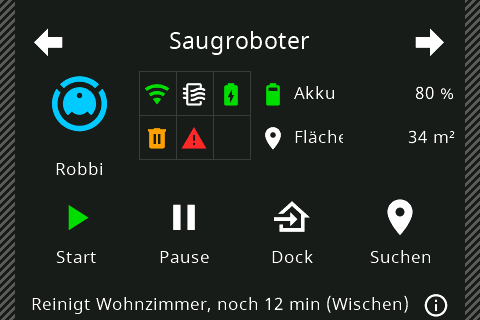
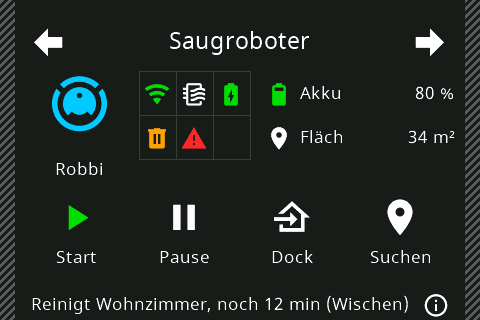
fix(hmi): move info set B/C of cardDevice1 6 px away from the status grid (device14)
The icon of the info rows stood behind the grid with the pitch of the grid
icons and looked like one more column. Sets B and C start 6 px later
(eu icon 247/321, us-l 262/336), the right edge stays: name B 43 px,
value C 81 px. Adapter field widths, web panel (eu/us-l, web-l), admin
preview, geometry file, previews and docs follow; us-p unchanged.

Changed region(s): [[0.5312, 0.25, 0.7188, 0.3438], [0.5312, 0.375, 0.7188, 0.4688]]

diff --git a/src-web/src/cards/cardDevice/geometry.test.ts b/src-web/src/cards/cardDevice/geometry.test.ts
@@ -408,7 +408,7 @@ describe('device page geometry: eu', () => {
             name: { x: 10, y: 244, w: 104, h: 26 },
         });
         expect(DEVICE_GEOMETRY[1].slots.slice(2, 6).map(s => slotBoxes(s)[0].x)).toEqual([10, 118, 226, 334]);
-        // the info rows per stage: set A, B (name 49 px, 15 bytes, the value of A), C (no name, value 87 px, 19
+        // the info rows per stage: set A, B (name 43 px, 15 bytes, the value of A), C (no name, value 81 px, 19
         // bytes), none
         const info1 = (stage: DeviceStage): SlotGeometry | undefined => deviceGeometry(1, 'eu', [], stage).slots[0];
         expect(info1(0)).toEqual({
@@ -419,14 +419,14 @@ describe('device page geometry: eu', () => {
         });
         expect(info1(1)).toEqual({
             kind: 'info',
-            icon: { x: 241, y: 76, w: 36, h: 34 },
-            name: { x: 279, y: 80, w: 49, h: 26, maxBytes: 15 },
+            icon: { x: 247, y: 76, w: 36, h: 34 },
+            name: { x: 285, y: 80, w: 43, h: 26, maxBytes: 15 },
             value: { x: 330, y: 80, w: 110, h: 26 },
         });
         expect(info1(2)).toEqual({
             kind: 'info',
-            icon: { x: 315, y: 76, w: 36, h: 34 },
-            value: { x: 353, y: 80, w: 87, h: 26, maxBytes: 19 },
+            icon: { x: 321, y: 76, w: 36, h: 34 },
+            value: { x: 359, y: 80, w: 81, h: 26, maxBytes: 19 },
         });
         expect(info1(3)).toBeUndefined();
         // the grid: 8 x 2 cells of 38 x 45 from x 124, rows at y 71 / 115; cardDevice3 8 x 1 of 38 x 52 from x 114
@@ -506,8 +506,8 @@ describe('device page geometry: us-l', () => {
         }
         expect(US_L_GEOMETRY[1].status).toEqual({ x: 25, y: 289, w: 390, h: 30 });
         expect(US_L_GEOMETRY[1].info).toEqual({ x: 419, y: 288, w: 36, h: 32 });
-        expect(deviceGeometry(1, 'us-l', [], 1).slots[0]).toMatchObject({ icon: { x: 256, y: 76 } });
-        expect(deviceGeometry(1, 'us-l', [], 2).slots[0]).toMatchObject({ icon: { x: 330, y: 76 } });
+        expect(deviceGeometry(1, 'us-l', [], 1).slots[0]).toMatchObject({ icon: { x: 262, y: 76 } });
+        expect(deviceGeometry(1, 'us-l', [], 2).slots[0]).toMatchObject({ icon: { x: 336, y: 76 } });
         expect(deviceGeometry(1, 'us-l').slots[0]).toMatchObject({ icon: { x: 141, y: 76 } });
         expect(deviceGeometry(2, 'us-l').extras).toEqual([]);
     });
@@ -655,14 +655,14 @@ describe('device page geometry: web-l', () => {
         // bytes; stage 3: no info rows
         expect(geometry(1, 0, 1).slots[1]).toEqual({
             kind: 'info',
-            icon: { x: 241, y: 120, w: 36, h: 34 },
-            name: { x: 279, y: 124, w: 239, h: 26, maxBytes: 15 },
+            icon: { x: 247, y: 120, w: 36, h: 34 },
+            name: { x: 285, y: 124, w: 233, h: 26, maxBytes: 15 },
             value: { x: 520, y: 124, w: 110, h: 26 },
         });
         expect(geometry(1, 0, 2).slots[1]).toEqual({
             kind: 'info',
-            icon: { x: 315, y: 120, w: 36, h: 34 },
-            value: { x: 353, y: 124, w: 277, h: 26, maxBytes: 19 },
+            icon: { x: 321, y: 120, w: 36, h: 34 },
+            value: { x: 359, y: 124, w: 271, h: 26, maxBytes: 19 },
         });
         expect(geometry(1, 0, 3).slots.slice(0, 2)).toEqual([undefined, undefined]);
         // main and the grid are those of eu

diff --git a/src/lib/types/deviceDetails.ts b/src/lib/types/deviceDetails.ts
@@ -403,9 +403,9 @@ export const DEVICE_PAGE_FIELDS: Readonly<Record<DevicePageLayout, DevicePageLay
         mainName: 110,
         status: 390,
         slots: { info: { name: 164, value: 110 }, button: { name: 104 } },
-        // the status grid right of the big icon: stage 1 set B (icon, name 49 px, the value of set A), stage 2 set C
-        // (icon and value 87 px, no name), stage 3 no info rows
-        slotsByStage: { 1: { info: { name: 49, value: 110 } }, 2: { info: { name: 0, value: 87 } } },
+        // the status grid right of the big icon: stage 1 set B (icon, name 43 px, the value of set A), stage 2 set C
+        // (icon and value 81 px, no name), stage 3 no info rows
+        slotsByStage: { 1: { info: { name: 43, value: 110 } }, 2: { info: { name: 0, value: 81 } } },
     },
     2: {
         mainName: 96,
@@ -464,15 +464,15 @@ export const DEVICE_PAGE_FIELDS_US_P: Readonly<Record<DevicePageLayout, DevicePa
  * stand side by side, which are 4 px narrower to keep a gap between two names. Rows that hold a varying number of
  * elements are given with their narrowest field: the buttons of layout 1 have 104 px, six in a row 100 px; the buttons
  * of layout 2 have 100 px, two or three in a row 96 px. The status icon grid and its stages are those of eu; the info
- * rows of layout 1 reach the right edge in every set: set B with the name up to the value (239 px, the HMI copies at
- * most 15 bytes of it), set C with the value from its icon to the right edge (277 px, at most 19 bytes).
+ * rows of layout 1 reach the right edge in every set: set B with the name up to the value (233 px, the HMI copies at
+ * most 15 bytes of it), set C with the value from its icon to the right edge (271 px, at most 19 bytes).
  */
 export const DEVICE_PAGE_FIELDS_WEB_L: Readonly<Record<DevicePageLayout, DevicePageLayoutFields>> = {
     1: {
         mainName: 110,
         status: 580,
         slots: { info: { name: 354, value: 110 }, button: { name: 100 } },
-        slotsByStage: { 1: { info: { name: 239, value: 110 } }, 2: { info: { name: 0, value: 277 } } },
+        slotsByStage: { 1: { info: { name: 233, value: 110 } }, 2: { info: { name: 0, value: 271 } } },
     },
     2: {
         mainName: 96,

diff --git a/src/lib/pages/device-page-models.test.ts b/src/lib/pages/device-page-models.test.ts
@@ -119,10 +119,10 @@ describe('lib/types/deviceDetails - models of the device page', () => {
             }
         }
         expect(devicePageFields(1, 'eu').status).to.equal(390);
-        // the stages of the status grid: set B (short name), set C (no name, value 87 px)
+        // the stages of the status grid: set B (short name), set C (no name, value 81 px)
         expect(devicePageSlotFields(1, 'info', 0)).to.deep.equal({ name: 164, value: 110 });
-        expect(devicePageSlotFields(1, 'info', 1)).to.deep.equal({ name: 49, value: 110 });
-        expect(devicePageSlotFields(1, 'info', 2)).to.deep.equal({ name: 0, value: 87 });
+        expect(devicePageSlotFields(1, 'info', 1)).to.deep.equal({ name: 43, value: 110 });
+        expect(devicePageSlotFields(1, 'info', 2)).to.deep.equal({ name: 0, value: 81 });
         expect(devicePageSlotFields(1, 'button', 3)).to.deep.equal({ name: 104 });
         expect(devicePageSlotFields(3, 'info', 2)).to.deep.equal({ name: 125, value: 125 });
     });
@@ -147,8 +147,8 @@ describe('lib/types/deviceDetails - models of the device page', () => {
         // the names of buttons that stand side by side are 4 px narrower (a gap between two names)
         expect(devicePageSlotFields(1, 'info', 0, 'web-l')).to.deep.equal({ name: 354, value: 110 });
         // web-l: the stages of eu, the info rows reach the right edge in every set
-        expect(devicePageSlotFields(1, 'info', 1, 'web-l')).to.deep.equal({ name: 239, value: 110 });
-        expect(devicePageSlotFields(1, 'info', 2, 'web-l')).to.deep.equal({ name: 0, value: 277 });
+        expect(devicePageSlotFields(1, 'info', 1, 'web-l')).to.deep.equal({ name: 233, value: 110 });
+        expect(devicePageSlotFields(1, 'info', 2, 'web-l')).to.deep.equal({ name: 0, value: 271 });
         expect(devicePageSlotFields(2, 'progress', 0, 'web-l')).to.deep.equal({ name: 620 });
         for (const layout of LAYOUTS) {
             const web = DEVICE_PAGE_FIELDS_WEB_L[layout];

diff --git a/src-web/src/cards/cardDevice/geometryWeb.ts b/src-web/src/cards/cardDevice/geometryWeb.ts
@@ -132,7 +132,7 @@ const VALUE_L = 520;
 
 /**
  * An info row of web-l cardDevice1 in the set of the stage: the icon where eu has it (5 px right of the grid of the
- * stage), sets A and B with the name up to the value, set C with the value from the icon to the right edge (no
+ * stage in set A, 11 px in sets B and C), sets A and B with the name up to the value, set C with the value from the icon to the right edge (no
  * name).
  *
  * @param y top of the icon
@@ -143,15 +143,15 @@ function info1L(y: number, stage: DeviceStage): InfoSlotGeometry {
         case 1:
             return {
                 kind: 'info',
-                icon: box(241, y, 36, 34),
-                name: { ...box(279, y + 4, VALUE_L - 2 - 279, 26), maxBytes: SET_B_NAME_BYTES },
+                icon: box(247, y, 36, 34),
+                name: { ...box(285, y + 4, VALUE_L - 2 - 285, 26), maxBytes: SET_B_NAME_BYTES },
                 value: box(VALUE_L, y + 4, RIGHT - VALUE_L, 26),
             };
         case 2:
             return {
                 kind: 'info',
-                icon: box(315, y, 36, 34),
-                value: { ...box(353, y + 4, RIGHT - 353, 26), maxBytes: SET_C_VALUE_BYTES },
+                icon: box(321, y, 36, 34),
+                value: { ...box(359, y + 4, RIGHT - 359, 26), maxBytes: SET_C_VALUE_BYTES },
             };
         default:
             return {

diff --git a/src-web/src/cards/cardDevice/geometryHmi.ts b/src-web/src/cards/cardDevice/geometryHmi.ts
@@ -35,7 +35,7 @@ export const SET_B_NAME_BYTES = 15;
 export const SET_C_VALUE_BYTES = 19;
 
 /**
- * An info row of cardDevice1 in set B (stage 1, right of 3 columns of the grid): icon, the name 49 px wide, the value
+ * An info row of cardDevice1 in set B (stage 1, right of 3 columns of the grid): icon, the name 43 px wide, the value
  * of set A (`tValue1/2`).
  *
  * @param y top of the icon
@@ -43,8 +43,8 @@ export const SET_C_VALUE_BYTES = 19;
 function info1B(y: number): InfoSlotGeometry {
     return {
         kind: 'info',
-        icon: box(241, y, 36, 34),
-        name: { ...box(279, y + 4, 49, 26), maxBytes: SET_B_NAME_BYTES },
+        icon: box(247, y, 36, 34),
+        name: { ...box(285, y + 4, 43, 26), maxBytes: SET_B_NAME_BYTES },
         value: box(330, y + 4, 110, 26),
     };
 }
@@ -57,8 +57,8 @@ function info1B(y: number): InfoSlotGeometry {
 function info1C(y: number): InfoSlotGeometry {
     return {
         kind: 'info',
-        icon: box(315, y, 36, 34),
-        value: { ...box(353, y + 4, 87, 26), maxBytes: SET_C_VALUE_BYTES },
+        icon: box(321, y, 36, 34),
+        value: { ...box(359, y + 4, 81, 26), maxBytes: SET_C_VALUE_BYTES },
     };
 }
 

diff --git a/src/lib/pages/device-page.test.ts b/src/lib/pages/device-page.test.ts
@@ -365,8 +365,8 @@ describe('lib/types/deviceDetails - device page configuration', () => {
         ).to.equal(false);
         expect(devicePageHasStatusIcons({ layout: 2, statusStage: 1, statusSlots: [ref('door')] })).to.equal(false);
         expect(devicePageSlotFields(1, 'info', 0)).to.deep.equal({ name: 164, value: 110 });
-        expect(devicePageSlotFields(1, 'info', 1)).to.deep.equal({ name: 49, value: 110 });
-        expect(devicePageSlotFields(1, 'info', 2)).to.deep.equal({ name: 0, value: 87 });
+        expect(devicePageSlotFields(1, 'info', 1)).to.deep.equal({ name: 43, value: 110 });
+        expect(devicePageSlotFields(1, 'info', 2)).to.deep.equal({ name: 0, value: 81 });
         expect(devicePageSlotFields(1, 'button', 1)).to.deep.equal({ name: 104 });
         expect(devicePageSlotFields(1, 'status', 1)).to.equal(undefined);
         expect(devicePageSlotFields(3, 'info', 1)).to.deep.equal({ name: 125, value: 125 });

diff --git a/src-admin/src/devicePageConfig.test.ts b/src-admin/src/devicePageConfig.test.ts
@@ -611,8 +611,8 @@ describe('devicePageConfig - device page of the page item dialog', () => {
                 .sort((a, b) => a - b);
         // layout 1: the info rows wide / set B / set C / none, the grid 0 / 3 / 5 / 8 columns of 2 cells
         expect(devicePagePreviewAreas(1, 0).find(a => a.slot === 1)).to.deep.include({ x: 126, w: 314 });
-        expect(devicePagePreviewAreas(1, 1).find(a => a.slot === 1)).to.deep.include({ x: 241, w: 199 });
-        expect(devicePagePreviewAreas(1, 2).find(a => a.slot === 2)).to.deep.include({ x: 315, y: 120, w: 125 });
+        expect(devicePagePreviewAreas(1, 1).find(a => a.slot === 1)).to.deep.include({ x: 247, w: 193 });
+        expect(devicePagePreviewAreas(1, 2).find(a => a.slot === 2)).to.deep.include({ x: 321, y: 120, w: 119 });
         expect(slotsOf(1, 3)).to.deep.equal([3, 4, 5, 6]);
         expect(cells(1, 0)).to.have.length(0);
         expect(cells(1, 1)).to.have.length(6);

diff --git a/src-web/src/cards/cardDevice/parse.test.ts b/src-web/src/cards/cardDevice/parse.test.ts
@@ -498,8 +498,8 @@ describe('cardDevice status icon grid (devIcons, stage)', () => {
     it('the geometry follows the stage: info rows in set A / B / C / none, tiles 1 and 2 of cardDevice3', () => {
         const info = (stage: 0 | 1 | 2 | 3): unknown => deviceGeometry(1, 'eu', [], stage).slots[0];
         expect(info(0)).toMatchObject({ icon: { x: 126 }, name: { x: 164, w: 164 }, value: { x: 330, w: 110 } });
-        expect(info(1)).toMatchObject({ icon: { x: 241 }, name: { x: 279, w: 49 }, value: { x: 330, w: 110 } });
-        expect(info(2)).toMatchObject({ icon: { x: 315 }, value: { x: 353, w: 87 } });
+        expect(info(1)).toMatchObject({ icon: { x: 247 }, name: { x: 285, w: 43 }, value: { x: 330, w: 110 } });
+        expect(info(2)).toMatchObject({ icon: { x: 321 }, value: { x: 359, w: 81 } });
         expect(info(2)).not.toHaveProperty('name');
         expect(info(3)).toBeUndefined();
         // buttons do not move

diff --git a/src-web/src/cards/cardDevice/CardDevice.test.ts b/src-web/src/cards/cardDevice/CardDevice.test.ts
@@ -457,11 +457,11 @@ describe('cardDevice status icon grid rendering', () => {
         expect(tag(a, 'slot-1')).toContain('left:126px;top:76px');
         expect(a).toContain('Name 1<');
         const b = html('cardDevice1', 1, 3);
-        expect(tag(b, 'slot-1')).toContain('left:241px;top:76px');
+        expect(tag(b, 'slot-1')).toContain('left:247px;top:76px');
         expect(b).toContain('Name 1<');
         expect(b).toContain('Wert 1<');
         const c = html('cardDevice1', 2, 9);
-        expect(tag(c, 'slot-1')).toContain('left:315px;top:76px');
+        expect(tag(c, 'slot-1')).toContain('left:321px;top:76px');
         expect(c).not.toContain('Name 1<');
         expect(c).toContain('Wert 1<');
         const none = html('cardDevice1', 3, 16);

diff --git a/src-admin/src/devicePageConfig.ts b/src-admin/src/devicePageConfig.ts
@@ -636,8 +636,8 @@ const STATUS_GRID: Readonly<Record<DevicePageLayout, { x: number; y: number; w: 
  */
 const LAYOUT1_INFO_ROW_X: Readonly<Record<DevicePageStatusStage, number | null>> = {
     0: 126,
-    1: 241,
-    2: 315,
+    1: 247,
+    2: 321,
     3: null,
 };
 

diff --git a/HMI/tools/card_device.py b/HMI/tools/card_device.py
@@ -16,7 +16,7 @@ keys: stage size, visible x range and per page every element with its boxes as t
 (x, y, w, h, font, alignment, buffer; roles: header prev/heading/next, main icon/name, per slot icon/name/value/
 bar/toggle/touch and the sets B/C of an info row, status, info, the grid with its cells and the stages) plus
 statusWidth, the width of the status line in px. doc/ideas/device-details/device-page-geometry.json is that file
-for the device13 pages (the web panel builds its layouts from it, adapter and web panel test against it).
+for the device14 pages (the web panel builds its layouts from it, adapter and web panel test against it).
 
 Models. The model is read from the project (detect_model: pageStartup sends event,startup,<version>,<model>,..),
 never from the file name; the page size of cardGrid must fit it.
@@ -273,8 +273,8 @@ def info_sets(x_icon_b, x_name_b, w_name_b, x_icon_c, x_value_c, w_value_c, ys):
     return out
 
 
-SET_NAME_LEN = 15  # name of set B (49 px hold at most 9 characters)
-SET_VALUE_LEN = 19  # value of set C (87 / 106 px hold at most 17 narrow characters)
+SET_NAME_LEN = 15  # name of set B (43 px)
+SET_VALUE_LEN = 19  # value of set C (81 px eu/us-l, 106 px us-p)
 
 
 # landscape (EU; us-l with every x shifted)
@@ -289,8 +289,10 @@ LAYOUTS = {
         'iconLen': ICON_NEED,
         'slots': [info_row(126, 76, 314), info_row(126, 120, 314)] + [button(10 + 108 * k, 190, 104) for k in range(4)],
         'cells': grid(8, 2, 124, 71, 37, 38, 45), 'gridRows': 2, 'stageColumns': (0, 3, 5, 8),
-        # B: icon 5 px behind column 3 (236), name 2 px behind the icon up to tValue (330); C: behind column 5 (310)
-        'sets': info_sets(241, 279, 49, 315, 353, 87, (76, 120)),
+        # B: icon 11 px behind column 3 (236), name 2 px behind the icon up to tValue (330); C: icon 11 px behind
+        # column 5 (310), value up to 440. 11 px, not the 5 px between grid and icon: with the pitch of the grid the
+        # icon of the row looked like one more column
+        'sets': info_sets(247, 285, 43, 321, 359, 81, (76, 120)),
         'setStages': {'A': (0,), 'B': (1,), 'C': (2,)}, 'sharedValue': 'B',
         'status': STATUS_LINE, 'info': INFO_ICON,
     },

diff --git a/doc/ideas/device-details/device-page-hmi.md b/doc/ideas/device-details/device-page-hmi.md
@@ -2,11 +2,13 @@
 
 Drei neue Seiten für **ein** Gerät (Saugroboter, Waschmaschine, Pkw …): großes Geräte-Icon, feste Anzahl Slots mit
 festen Elementarten, Statuszeile unten, info-Icon unten rechts. Gebaut mit `HMI/tools/card_device.py`, Vorschau des
-aktuellen Stands `device13` je Stufe unter `doc/Pictures/device-page/next/`; die älteren Vorschauen
+aktuellen Stands `device14` je Stufe unter `doc/Pictures/device-page/next/`; die älteren Vorschauen
 `doc/Pictures/device-page/hmi-cardDevice{1,2,3}.png` (cardDevice1 mit 2×2-Status-Block, ohne:
 `hmi-cardDevice1-plain.png`) zeigen `device12`.
 
-> **Aktueller Stand ist `device13`** (Abschnitt [„device13“](#device13-typzahl-status-raster-devicons)). Die Abschnitte ab
+> **Aktueller Stand ist `device14`** = `device13` mit Satz B/C 6 px weiter rechts (Abschnitt
+> [„device14“](#device14-satz-bc-6-px-nach-rechts)); sonst gilt der Abschnitt
+> [„device13“](#device13-typzahl-status-raster-devicons). Die Abschnitte ab
 > [„Protokoll“](#protokoll) beschreiben `device12`; wo sie dem Abschnitt „device13“ widersprechen, sind sie
 > **überholt** – vor allem: cardDevice1 hat in `entityUpd` 6 Slots (nicht 10), die Status-Icons kommen per `devIcons`
 > in ein Raster bis 8×2 (nicht der 2×2-Block `tStat7–10`), cardDevice3 hat ein Raster bis 8×1, der schmale Satz
@@ -68,6 +70,37 @@ cardDevice1 gelegt und gespeichert (siehe „Verworfen: Lauftext“).
   (36 Seiten; pageTest hat keinen Umschalter, wie bisher).
 - Idempotent: Läuft das Werkzeug auf seiner eigenen Ausgabe, baut es die drei Seiten in ihren Abschnitten neu und
   ändert sonst nichts (geprüft).
+
+## device14: Satz B/C 6 px nach rechts
+
+Stand 2026-11-28. Tims Wunsch: Das Icon der Info-Zeilen in Satz B (Stufe 1) und C (Stufe 2) von cardDevice1 stand
+mit demselben Abstand hinter dem Raster wie die Raster-Icons untereinander und sah deshalb aus wie eine weitere
+Spalte. Satz B und C liegen jetzt **6 px weiter rechts** (Icon 11 statt 5 px hinter der Rasterkante); die rechte Kante
+bleibt, der Text wird 6 px schmaler:
+
+| Modell | Satz B (Icon, Name, Wert) | Satz C (Icon, Wert) |
+|---|---|---|
+| EU | Icon 247, Name 285 w **43**, Wert = tValue 330 w 110 | Icon 321, Wert 359 w **81** (bis 440) |
+| us-l (+15) | Icon 262, Name 300 w 43, Wert 345 w 110 | Icon 336, Wert 374 w 81 (bis 455) |
+
+us-p (Satz C neben dem Haupt-Icon), Stufe 0 und 3, cardDevice2 und cardDevice3 sind unverändert. Puffer, Code,
+Objektzahl und RAM-Schätzung bleiben (cardDevice1 3045 mit global), `check_area` meldet nichts.
+
+```
+for M in "" us-l- us-p-; do
+  PYTHONDONTWRITEBYTECODE=1 python3 HMI/tools/card_device.py /home/tim/device-page-hmi/nspanel-${M}v6.2.0.device13.HMI \
+    /home/tim/device-page-hmi/nspanel-${M}v6.2.0.device14.HMI --preview doc/Pictures/device-page/next \
+    --geometry doc/ideas/device-details/device-page-geometry.json
+done
+```
+
+- Eingabe sind die von Tim kompilierten `device13`-Dateien. Skript-Vergleich aller lebenden Abschnitte
+  `device13` → `device14`: EU und us-l ändern nur `x`/`endx` von `bEntityB1/2`, `bEntityC1/2` und `x`/`w` von
+  `tEntityB1/2`, `tValueC1/2` auf cardDevice1; us-p ist identisch. Ein zweiter Lauf auf `device14` liefert dieselben
+  Abschnitte (idempotent). Kopien in `/mnt/projekte/nextion-vm/`.
+- Adapter (`DEVICE_PAGE_FIELDS`: Name B 43, Wert C 81; web-l: Name B 233, Wert C 271), Web-Panel
+  (`geometryHmi.ts`, web-l in `geometryWeb.ts`, das die x-Werte von eu übernimmt) und Admin-Vorschau sind angeglichen;
+  web-p folgt us-p und bleibt.
 
 ## device13: Typzahl, Status-Raster, devIcons
 
@@ -145,7 +178,7 @@ Die Status-Slots 7–10 von cardDevice1 gibt es in `entityUpd` nicht mehr, die S
 |---|---|---|---|
 | cardDevice1 | 0 | 0 | Satz A (breit, wie bisher) |
 | | 1 | 3 | Satz B: Icon, Name schmal, Wert = `tValue1/2` von A |
-| | 2 | 5 | Satz C: Icon, Wert 87 px (us-p 106 px), kein Name |
+| | 2 | 5 | Satz C: Icon, Wert 81 px (`device13` 87; us-p 106 px), kein Name |
 | | 3 | 8 | keine (auch wenn entityUpd Info-Daten enthält) |
 | cardDevice3 | 0 | 0 | alle Kacheln |
 | | 1 | 4 | Kachel 1 aus (auch wenn entityUpd sie füllt) |
@@ -188,10 +221,13 @@ sonst an `bEntity1/2`. Ein Popup aus einer Zelle hat keine Überschrift, eines a
 
 ### Geometrie device13
 
+(Satz B/C in `device14` 6 px weiter rechts, siehe [„device14“](#device14-satz-bc-6-px-nach-rechts); die Tabelle zeigt die
+`device14`-Werte.)
+
 | Seite / Modell | Zellen (Abstand, w × h) | x Spalte 1 … 8 | y | Satz B | Satz C |
 |---|---|---|---|---|---|
-| cardDevice1 EU | 37, 38 × 45 | 124 … 383 (rechte Kante 421) | 71 / 115 | Icon 241, Name 279 w 49 (txt_maxl 15), Wert = tValue 330 w 110 | Icon 315, Wert 353 w 87 (txt_maxl 19) |
-| cardDevice1 us-l | wie EU | 139 … 398 (436) | 71 / 115 | Icon 256, Name 294, Wert 345 | Icon 330, Wert 368 w 87 |
+| cardDevice1 EU | 37, 38 × 45 | 124 … 383 (rechte Kante 421) | 71 / 115 | Icon 247, Name 285 w 43 (txt_maxl 15), Wert = tValue 330 w 110 | Icon 321, Wert 359 w 81 (txt_maxl 19) |
+| cardDevice1 us-l | wie EU | 139 … 398 (436) | 71 / 115 | Icon 262, Name 300 w 43, Wert 345 | Icon 336, Wert 374 w 81 |
 | cardDevice1 us-p (P2) | 37, 38 × 41 | 10 … 269 (307) | 188 / 228 | – | Icon 166 (y 76/120), Wert 204 w 106 (y 80/124) |
 | cardDevice3 EU | 37, 38 × 52 | 114 … 373 (411) | 67 | – | – |
 | cardDevice3 us-l | wie EU | 129 … 388 (426) | 67 | – | – |
@@ -252,8 +288,8 @@ Punkt 6 (Stufen, Rahmen, Kacheln). Alles andere ist offen; us-l und us-p sind no
 4. Long-Press während eines `entityUpd`: das Popup eines Typs 6–9 öffnet trotzdem (`vLPType`).
 5. Stufen cardDevice1: Feld 61 = 0/1/2/3, je mit `devIcons` mit 0, 1, 5, 9, 16 belegten Zellen: Spaltenzahl
    (⌈n/2⌉, höchstens 3/5/8), halbe letzte Spalte mit Rahmen, Info-Sätze A/B/C/keiner, Rahmenkanten nach dem Ausblenden
-   von Spalten, keine Reste der anderen Sätze. Abschneiden: Name in Satz B (49 px, 15 Byte), Wert in Satz C (87 px, 19
-   Byte; welche Seite fehlt beim rechtsbündigen Wert?). ✅ EU im Simulator (2026-11-28, `hmi/cardDevice1-icons-NN.png`
+   von Spalten, keine Reste der anderen Sätze. Abschneiden: Name in Satz B (49 px, `device14` 43 px, 15 Byte), Wert in Satz C (87 px,
+   `device14` 81 px, 19 Byte; welche Seite fehlt beim rechtsbündigen Wert?). ✅ EU im Simulator (2026-11-28, `hmi/cardDevice1-icons-NN.png`
    mit 0, 2 … 16 Icons): Spaltenzahl, Rahmen, Sätze A/B/C/keiner, keine Reste; Name in Satz B an der Feldgrenze
    abgeschnitten („Batter“). Offen: halbe letzte Spalte, Abschneiden des Werts in Satz C.
 6. Stufen cardDevice3: Feld 73 = 0/1/2 mit 3 bzw. 7 Icons; Kachel 1/2 bleibt aus, auch wenn `entityUpd` sie füllt;
@@ -537,7 +573,7 @@ Font 0 ist 24 px hoch; die Breite eines Texts liefert `src/lib/const/text-width.
 
 | Seite | main-Name | Statuszeile | Slot-Name | Slot-Wert |
 |---|---|---|---|---|
-| cardDevice1 | 110 px | 390 px, 1 Zeile, links | info: 164 px, mit Status-Icons 86 px (`device12`; **`device13`:** Satz B 49 px / 15 Byte, Satz C kein Name); button: 104 px | info: 110 px (rechtsbündig; `device13` Satz C 87 px / 19 Byte) |
+| cardDevice1 | 110 px | 390 px, 1 Zeile, links | info: 164 px, mit Status-Icons 86 px (`device12`; **`device14`:** Satz B 43 px / 15 Byte, Satz C kein Name); button: 104 px | info: 110 px (rechtsbündig; `device14` Satz C 81 px / 19 Byte) |
 | cardDevice2 | 96 px | 390 px, 1 Zeile, mittig | value: 190 px; progress: 429 px; info: 104 px; button: 100 px | value: 190 px **Font 4**; info: 104 px |
 | cardDevice3 | 100 px | 390 px, 1 Zeile, links | info: 125 px; switch: 125 px | info: 125 px |
 
